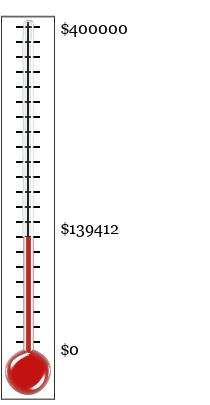
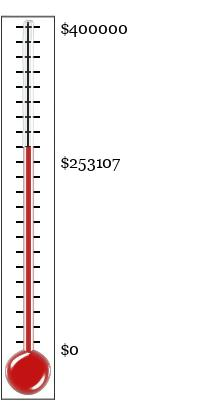
2025 Septemberfundraising update: : Google (Platinum), Microsoft (Gold), Community -> Platinum

Changed region(s): [[0.0857, 0.3556, 0.1714, 0.5926], [0.2857, 0.5333, 0.5714, 0.5926], [0.2857, 0.3852, 0.5714, 0.4444]]

diff --git a/contributors.html b/contributors.html
@@ -110,10 +110,14 @@ On request we will provide a link to your website for donations of
 <UL>
 <LI> Iridium: $100,000 and above
 <LI> Platinum: $50,000 to $100,000
+<UL>
+<LI><A HREF=donations.html>Total from smaller donors</A>
+<LI><A HREF=https://www.google.com>Google</A>
+</UL>
 <LI> Gold: $25,000 to $50,000
 <UL>
 <LI>Eric Grosse</LI>
-<LI><A HREF=donations.html>Total from smaller donors</A>
+<LI><A HREF=https://www.microsoft.com>Microsoft Corporation</A>
 </UL>
 <LI> Silver: $10,000 to $25,000
 <UL>
